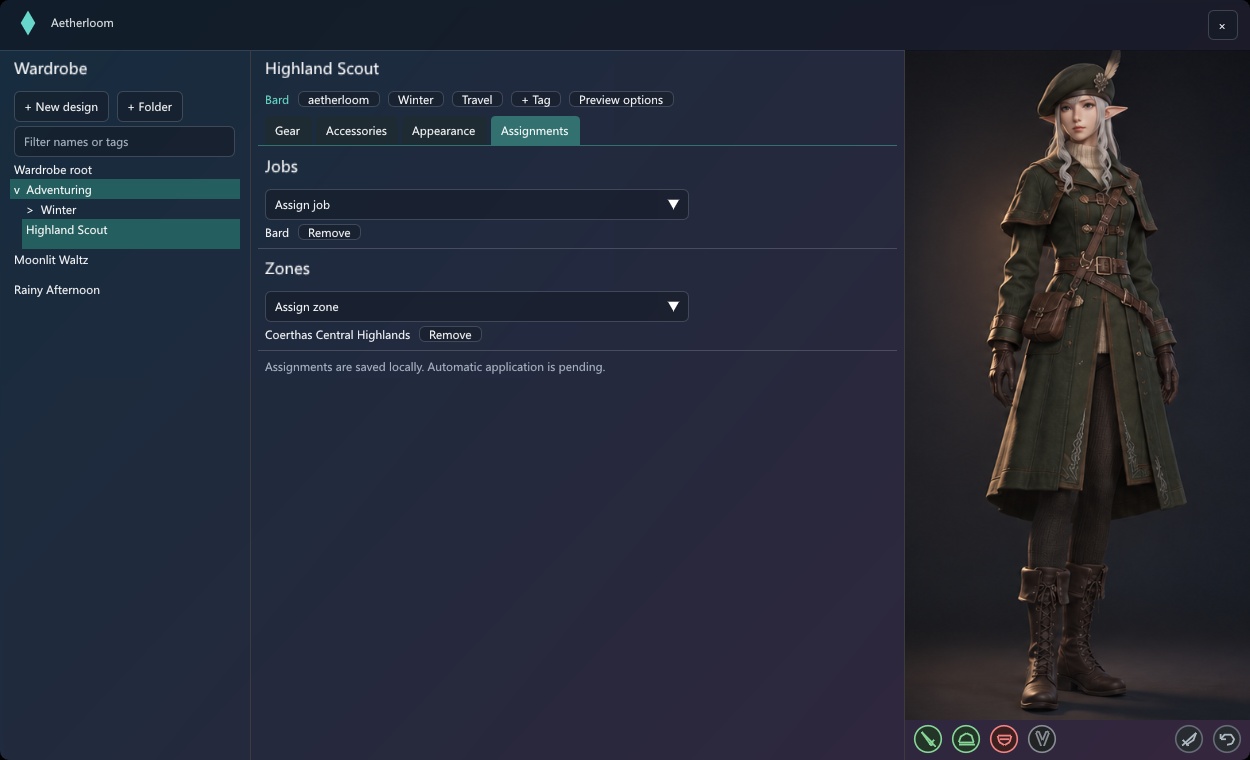
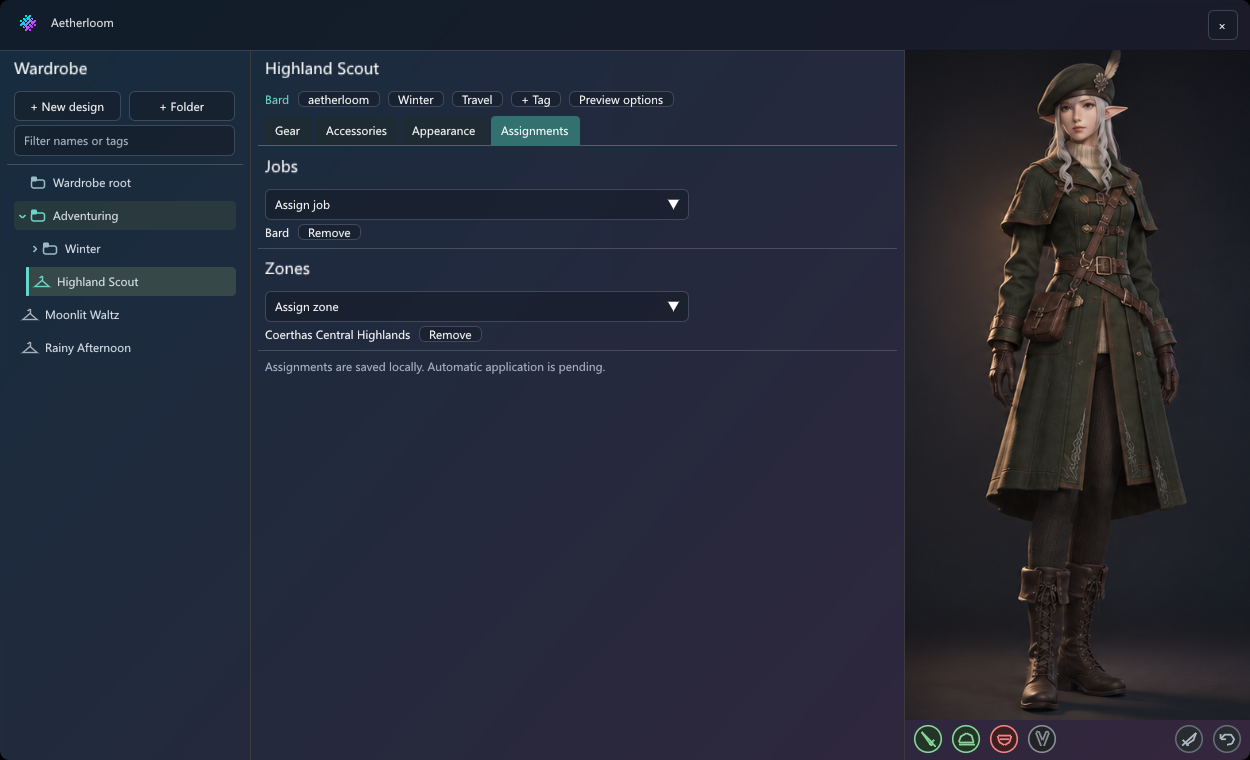
Polish wardrobe tree rows and render folder menu and drag interactions

Changed region(s): [[0.0, 0.1211, 0.2184, 0.4237], [0.0312, 0.4539, 0.0936, 0.4842], [0.0, 0.0, 0.0312, 0.0605]]

diff --git a/Library/WorkspaceControls.cs b/Library/WorkspaceControls.cs
@@ -43,6 +43,47 @@ public static class WorkspaceControls
         finally { ImGui.EndTable(); }
     }
 
+    public static bool TreeRow(string id,string label,bool selected,bool isFolder,bool? expanded=null)
+    {
+        float s=Scale;
+        var p=ImGui.GetCursorScreenPos();
+        var size=new Vector2(Math.Max(1,ImGui.GetContentRegionAvail().X),29*s);
+        ImGui.PushStyleColor(ImGuiCol.Header,Vector4.Zero);
+        ImGui.PushStyleColor(ImGuiCol.HeaderHovered,Vector4.Zero);
+        ImGui.PushStyleColor(ImGuiCol.HeaderActive,Vector4.Zero);
+        bool clicked=ImGui.Selectable("###"+id,selected,ImGuiSelectableFlags.None,size);
+        ImGui.PopStyleColor(3);
+        var dl=ImGui.GetWindowDrawList();
+        if(selected || ImGui.IsItemHovered())
+            dl.AddRectFilled(p,p+size,selected?(isFolder?0x603f5140u:0xc04b5140u):0x554d443bu,4*s);
+        if(selected && !isFolder)dl.AddRectFilled(p,p+new Vector2(3*s,size.Y),Accent,2*s);
+        uint ink=selected?Accent:isFolder?0xffc7bb98u:0xffbcafa3u;
+        float cy=p.Y+size.Y/2;
+        var start=new Vector2(p.X+5*s,cy);
+        if(expanded is {} open)
+        {
+            var mid=start+new Vector2(3*s,0);
+            dl.AddLine(mid+(open?new Vector2(-3,-1):new Vector2(-1,-3))*s,mid+(open?new Vector2(0,2):new Vector2(2,0))*s,ink,1.5f*s);
+            dl.AddLine(mid+(open?new Vector2(0,2):new Vector2(2,0))*s,mid+(open?new Vector2(3,-1):new Vector2(-1,3))*s,ink,1.5f*s);
+        }
+        var icon=new Vector2(p.X+(isFolder?17:9)*s,cy);
+        if(isFolder)
+        {
+            dl.AddRectFilled(icon+new Vector2(0,-6)*s,icon+new Vector2(6,-1)*s,ink,1*s);
+            dl.AddRect(icon+new Vector2(0,-3)*s,icon+new Vector2(14,6)*s,ink,2*s,ImDrawFlags.None,1.5f*s);
+        }
+        else
+        {
+            dl.AddLine(icon+new Vector2(4,-4)*s,icon+new Vector2(7,-6)*s,ink,1.4f*s);
+            dl.AddLine(icon+new Vector2(7,-6)*s,icon+new Vector2(7,-1)*s,ink,1.4f*s);
+            dl.AddTriangle(icon+new Vector2(7,-1)*s,icon+new Vector2(14,5)*s,icon+new Vector2(0,5)*s,ink,1.4f*s);
+        }
+        var textPos=new Vector2(icon.X+22*s,cy-ImGui.GetTextLineHeight()/2);
+        dl.PushClipRect(p,p+size,true);dl.AddText(textPos,0xffede6de,label);dl.PopClipRect();
+        if(ImGui.IsItemHovered() && textPos.X+ImGui.CalcTextSize(label).X>p.X+size.X)ImGui.SetTooltip(label);
+        return clicked;
+    }
+
     public static bool Tile(string id, string label, string detail, Picture? icon, bool selected, bool missing, float width)
     {
         float s = Scale;
@@ -113,7 +154,7 @@ public static class WorkspaceControls
         return clicked;
     }
 
-    public static bool BeginPicker(string id,float width,float preferredHeight)
+    public static bool BeginPicker(string id,float width,float preferredHeight,Vector2? anchor=null)
     {
         if(!ImGui.IsPopupOpen(id))return false;
         var bounds=ImGui.GetWindowPos();
@@ -124,6 +165,11 @@ public static class WorkspaceControls
         float bottom=vp.WorkPos.Y+vp.WorkSize.Y;
         float top=ImGui.GetItemRectMax().Y+3*Scale;
         if(top+preferredHeight*Scale>bottom) top=Math.Max(vp.WorkPos.Y,bottom-preferredHeight*Scale);
+        if(anchor is {} at)
+        {
+            left=Math.Clamp(at.X,vp.WorkPos.X,Math.Max(vp.WorkPos.X,vp.WorkPos.X+vp.WorkSize.X-width));
+            top=Math.Clamp(at.Y,vp.WorkPos.Y,Math.Max(vp.WorkPos.Y,bottom-preferredHeight*Scale));
+        }
         ImGui.SetNextWindowPos(new(left,top));
         ImGui.SetNextWindowSizeConstraints(new(width,0),new(width,vp.WorkSize.Y));
         ImGui.PushStyleVar(ImGuiStyleVar.WindowPadding,new Vector2(14,12)*Scale);

diff --git a/WardrobePreview/Program.cs b/WardrobePreview/Program.cs
@@ -21,6 +21,7 @@ internal sealed class RenderForm(string? scene,string? output):Form
     private GlSurface? surface;
     private WardrobeLayout? layout;
     private int frame;
+    private WardrobeFixture? fixture;
     private readonly System.Windows.Forms.Timer timer=new(){Interval=25};
     protected override unsafe void OnLoad(EventArgs e)
     {
@@ -29,7 +30,7 @@ internal sealed class RenderForm(string? scene,string? output):Form
         ImGui.CreateContext();var io=ImGui.GetIO();io.IniFilename=null;
         io.Fonts.AddFontFromFileTTF(Path.Combine(Environment.GetFolderPath(Environment.SpecialFolder.Fonts),"segoeui.ttf"),16);
         surface=new GlSurface(Handle);
-        var fixture=new WardrobeFixture(LoadReference);
+        fixture=new WardrobeFixture(LoadReference);
         if(scene=="dye-neutral"){fixture.SetDye("Body",0,0);fixture.FavoriteDyes.Clear();}
         layout=new(fixture);fixture.Layout=layout;
         timer.Tick+=(_,_)=>Invalidate();timer.Start();
@@ -46,12 +47,28 @@ internal sealed class RenderForm(string? scene,string? output):Form
     {
         if(surface==null||layout==null)return;
         var io=ImGui.GetIO();io.DisplaySize=new(ClientSize.Width,ClientSize.Height);io.DeltaTime=.025f;
+        if(scene=="folder-menu" && frame is 2 or 3)
+        {
+            io.AddMousePosEvent(84,215);
+            io.AddMouseButtonEvent(1,frame==2);
+        }
+        if(scene=="folder-drag")
+        {
+            if(frame is 1 or 2)io.AddMousePosEvent(85,247);
+            if(frame==2)io.AddMouseButtonEvent(0,true);
+            if(frame==3)io.AddMousePosEvent(105,246);
+            if(frame is 4 or 5)io.AddMousePosEvent(80,181);
+            if(frame==6)io.AddMouseButtonEvent(0,false);
+        }
         ImGui.NewFrame();ImGui.SetNextWindowPos(Vector2.Zero);ImGui.SetNextWindowSize(io.DisplaySize);
         WindowShell.PushHostStyle();ImGui.Begin("Aetherloom",WindowShell.HostFlags|ImGuiWindowFlags.NoResize|ImGuiWindowFlags.NoMove);WindowShell.PopHostStyle();
         if(frame is 1 or 2)layout.Show(scene switch{"hair" or "paint" or "colors" or "appearance"=>"Appearance","accessories"=>"Accessories","assignments"=>"Assignments",_=>"Gear"},
             scene switch{"dye" or "dye-neutral"=>"Body-dye0","colors"=>"HairColor","items"=>"Body","hair"=>"Hairstyle","paint"=>"FacePaint",_=>null});
         layout.Draw(()=>BeginInvoke(Close));ImGui.End();ImGui.Render();surface.Paint(ClientSize.Width,ClientSize.Height);
-        if(++frame==6 && output!=null){surface.Capture(output,ClientSize.Width,ClientSize.Height);BeginInvoke(Close);}
+        if(++frame==(scene=="folder-drag"?9:6) && output!=null){
+            if(scene=="folder-drag" && !fixture!.Folders.Contains("[AL] Winter"))
+                throw new InvalidOperationException("Dropping Winter onto the root did not promote it.");
+            surface.Capture(output,ClientSize.Width,ClientSize.Height);BeginInvoke(Close);}
     }
     protected override void OnMouseMove(MouseEventArgs e){if(surface!=null)ImGui.GetIO().AddMousePosEvent(e.X,e.Y);}
     protected override void OnMouseDown(MouseEventArgs e){if(surface!=null)ImGui.GetIO().AddMouseButtonEvent(e.Button==MouseButtons.Right?1:0,true);}

diff --git a/WardrobePreview/WardrobeFixture.cs b/WardrobePreview/WardrobeFixture.cs
@@ -11,6 +11,7 @@ internal sealed class WardrobeFixture:IWardrobe
     private readonly Dictionary<string,byte> chosen=[];
     private readonly List<WardrobeDye> palette=[];
     public WardrobeLayout Layout=null!;
+    public ImTextureID? HeaderMark {get;}
     public Guid Selected{get;private set;}
     public string Title=>designs.First(d=>d.Id==Selected).Name;
     public string[] Tags=>designs.First(d=>d.Id==Selected).Tags;
@@ -23,6 +24,7 @@ internal sealed class WardrobeFixture:IWardrobe
     private readonly byte[] appearancePalette=new byte[4096];
     public WardrobeFixture(Func<string,ImTextureID> load)
     {
+        HeaderMark=load("mark");
         var gear=load("gear");var look=load("appearance");var acc=load("accessories");
         Picture Cut(ImTextureID t,float x,float y,float w,float h)=>new(t,new(x/1585,y/992),new((x+w)/1585,(y+h)/992));
         art[100]=Cut(gear,960,58,620,843);art[101]=Cut(look,960,58,620,849); art[102]=Cut(acc,1020,60,560,840);
@@ -61,6 +63,25 @@ internal sealed class WardrobeFixture:IWardrobe
     public void Select(Guid id)=>Selected=id;
     public bool Create(string name,string folder){Selected=Guid.NewGuid();designs.Add((Selected,name,["aetherloom"]));paths[Selected]=folder;return true;}
     public bool CreateFolder(string parent,string name){folders.Add(parent.Length==0?"[AL] "+name:parent+"/"+name);return true;}
+    public bool RelocateFolder(string source,string parent,string name)
+    {
+        var destination=WardrobeLibrary.PathFor(parent,name);
+        if(WardrobeLibrary.Within(parent,source) || destination!=source && folders.Contains(destination))return false;
+        for(int i=0;i<folders.Count;i++)
+            if(WardrobeLibrary.Within(folders[i],source))folders[i]=destination+folders[i][source.Length..];
+        foreach(var (id,path) in paths.ToArray())
+            if(WardrobeLibrary.Within(path,source))paths[id]=destination+path[source.Length..];
+        return true;
+    }
+    public bool DeleteFolder(string path)
+    {
+        var parent=WardrobeLibrary.Parent(path);
+        var children=folders.Where(f=>WardrobeLibrary.Parent(f)==path).ToArray();
+        if(children.Any(c=>folders.Contains(WardrobeLibrary.PathFor(parent,WardrobeLibrary.Label(c)))))return false;
+        foreach(var child in children)RelocateFolder(child,parent,WardrobeLibrary.Label(child));
+        foreach(var (id,old) in paths.ToArray())if(old==path)paths[id]=parent;
+        return folders.Remove(path);
+    }
     public void MoveDesign(Guid id,string folder)=>paths[id]=folder;
     public void Tag(string tag,bool add){var i=designs.FindIndex(x=>x.Id==Selected);designs[i]=(Selected,Title,add?[..Tags,tag]:Tags.Where(x=>x!=tag).ToArray());}
     public IEnumerable<WardrobeSlot> Slots(bool accessories)=>rows.Where(x=>accessories==(x.Key is "Ears" or "Neck" or "Wrists" or "RFinger" or "LFinger"));

diff --git a/WardrobePreview/README.md b/WardrobePreview/README.md
@@ -10,3 +10,5 @@ The renders folder contains captures at 1250 × 760. Original design references 
 Set WARDROBE_PREVIEW_WIDTH to change the capture width. The gear-wide capture uses 1500 pixels for comparison with the default 1250 pixels.
 
 The dye and dye-neutral scenes use a snapshot of the game stain sheet. The second opens an undyed channel with no favourites. The colors scene uses a sample character hair palette. The live plugin reads these colours from the installed game.
+
+The folder-menu scene right-clicks a folder. The folder-drag scene drags its child onto Wardrobe root and verifies that it became a top-level folder.
